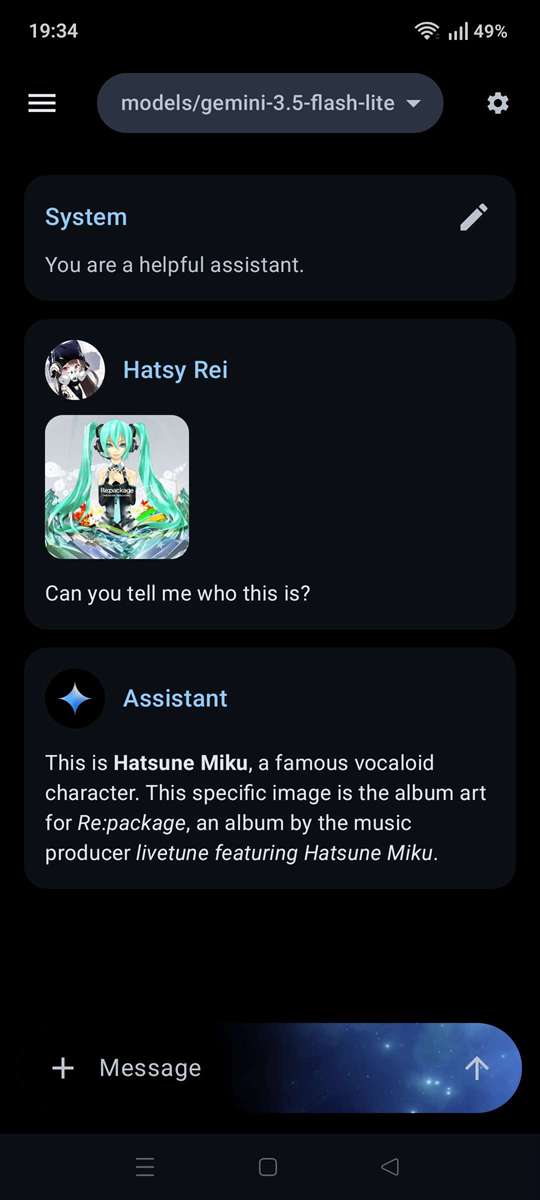
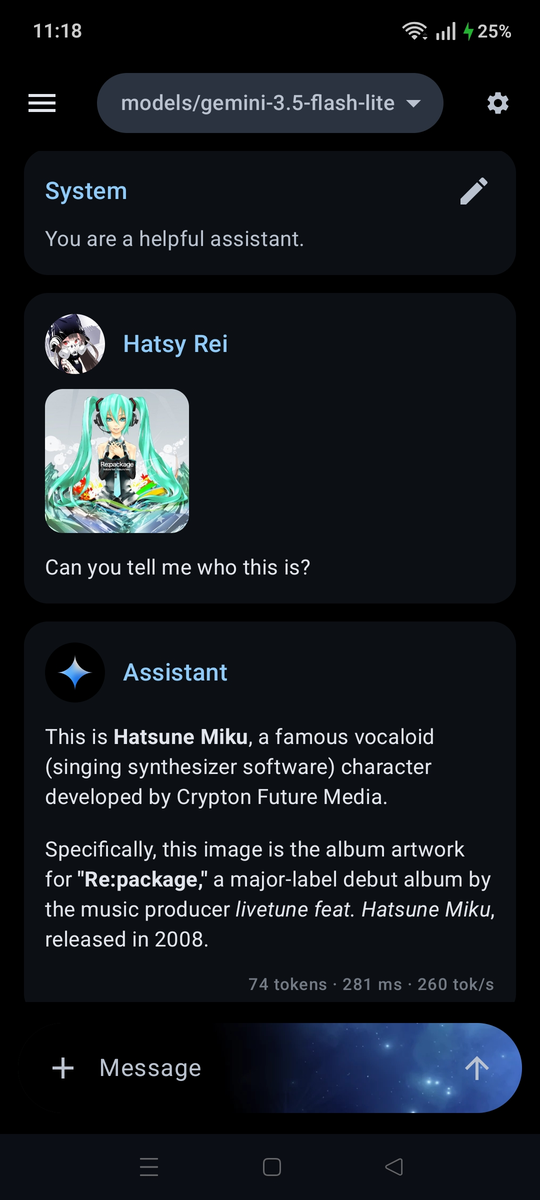
docs: refresh the README screenshots

diff --git a/README.md b/README.md
@@ -16,9 +16,9 @@ server.
 
 <table align="center">
 <tr>
-<td width="25%"><a href="docs/screenshots/chat-multimodal.png"><img src="docs/screenshots/chat-multimodal.png" width="100%" alt="Chat with an image attachment and Markdown reply" /></a></td>
-<td width="25%"><a href="docs/screenshots/drawer.png"><img src="docs/screenshots/drawer.png" width="100%" alt="Chat drawer with saved conversations" /></a></td>
-<td width="25%"><a href="docs/screenshots/settings-endpoint.png"><img src="docs/screenshots/settings-endpoint.png" width="100%" alt="Endpoint and model settings" /></a></td>
+<td width="25%"><a href="docs/screenshots/chat-multimodal.png"><img src="docs/screenshots/chat-multimodal.png" width="100%" alt="Chat with an image attachment, a Markdown reply and its generation-stats footnote" /></a></td>
+<td width="25%"><a href="docs/screenshots/drawer.png"><img src="docs/screenshots/drawer.png" width="100%" alt="Chat drawer with saved conversations, a New chat action and an overflow menu" /></a></td>
+<td width="25%"><a href="docs/screenshots/settings-endpoint.png"><img src="docs/screenshots/settings-endpoint.png" width="100%" alt="Endpoint, model, sampling and thinking settings" /></a></td>
 <td width="25%"><a href="docs/screenshots/settings-theme.png"><img src="docs/screenshots/settings-theme.png" width="100%" alt="Theme accent, composer background and profile settings" /></a></td>
 </tr>
 <tr>
@@ -52,7 +52,9 @@ server.
 - **Works offline** — history lives in Room, so browsing and reading need no
   network at all.
 - **Collapsible reasoning** — `<think>` output is rendered separately and folds
-  away.
+  away, and a **Thinking** toggle asks the endpoint to turn the model's
+  reasoning trace on or off (endpoints that don't support the request ignore
+  it).
 - **Generation stats** — a footnote under each reply with its token count,
   generation time and tokens/s, plus a per-chat **Properties** dialog
   summarising the active thread: message counts, conversation size, average
